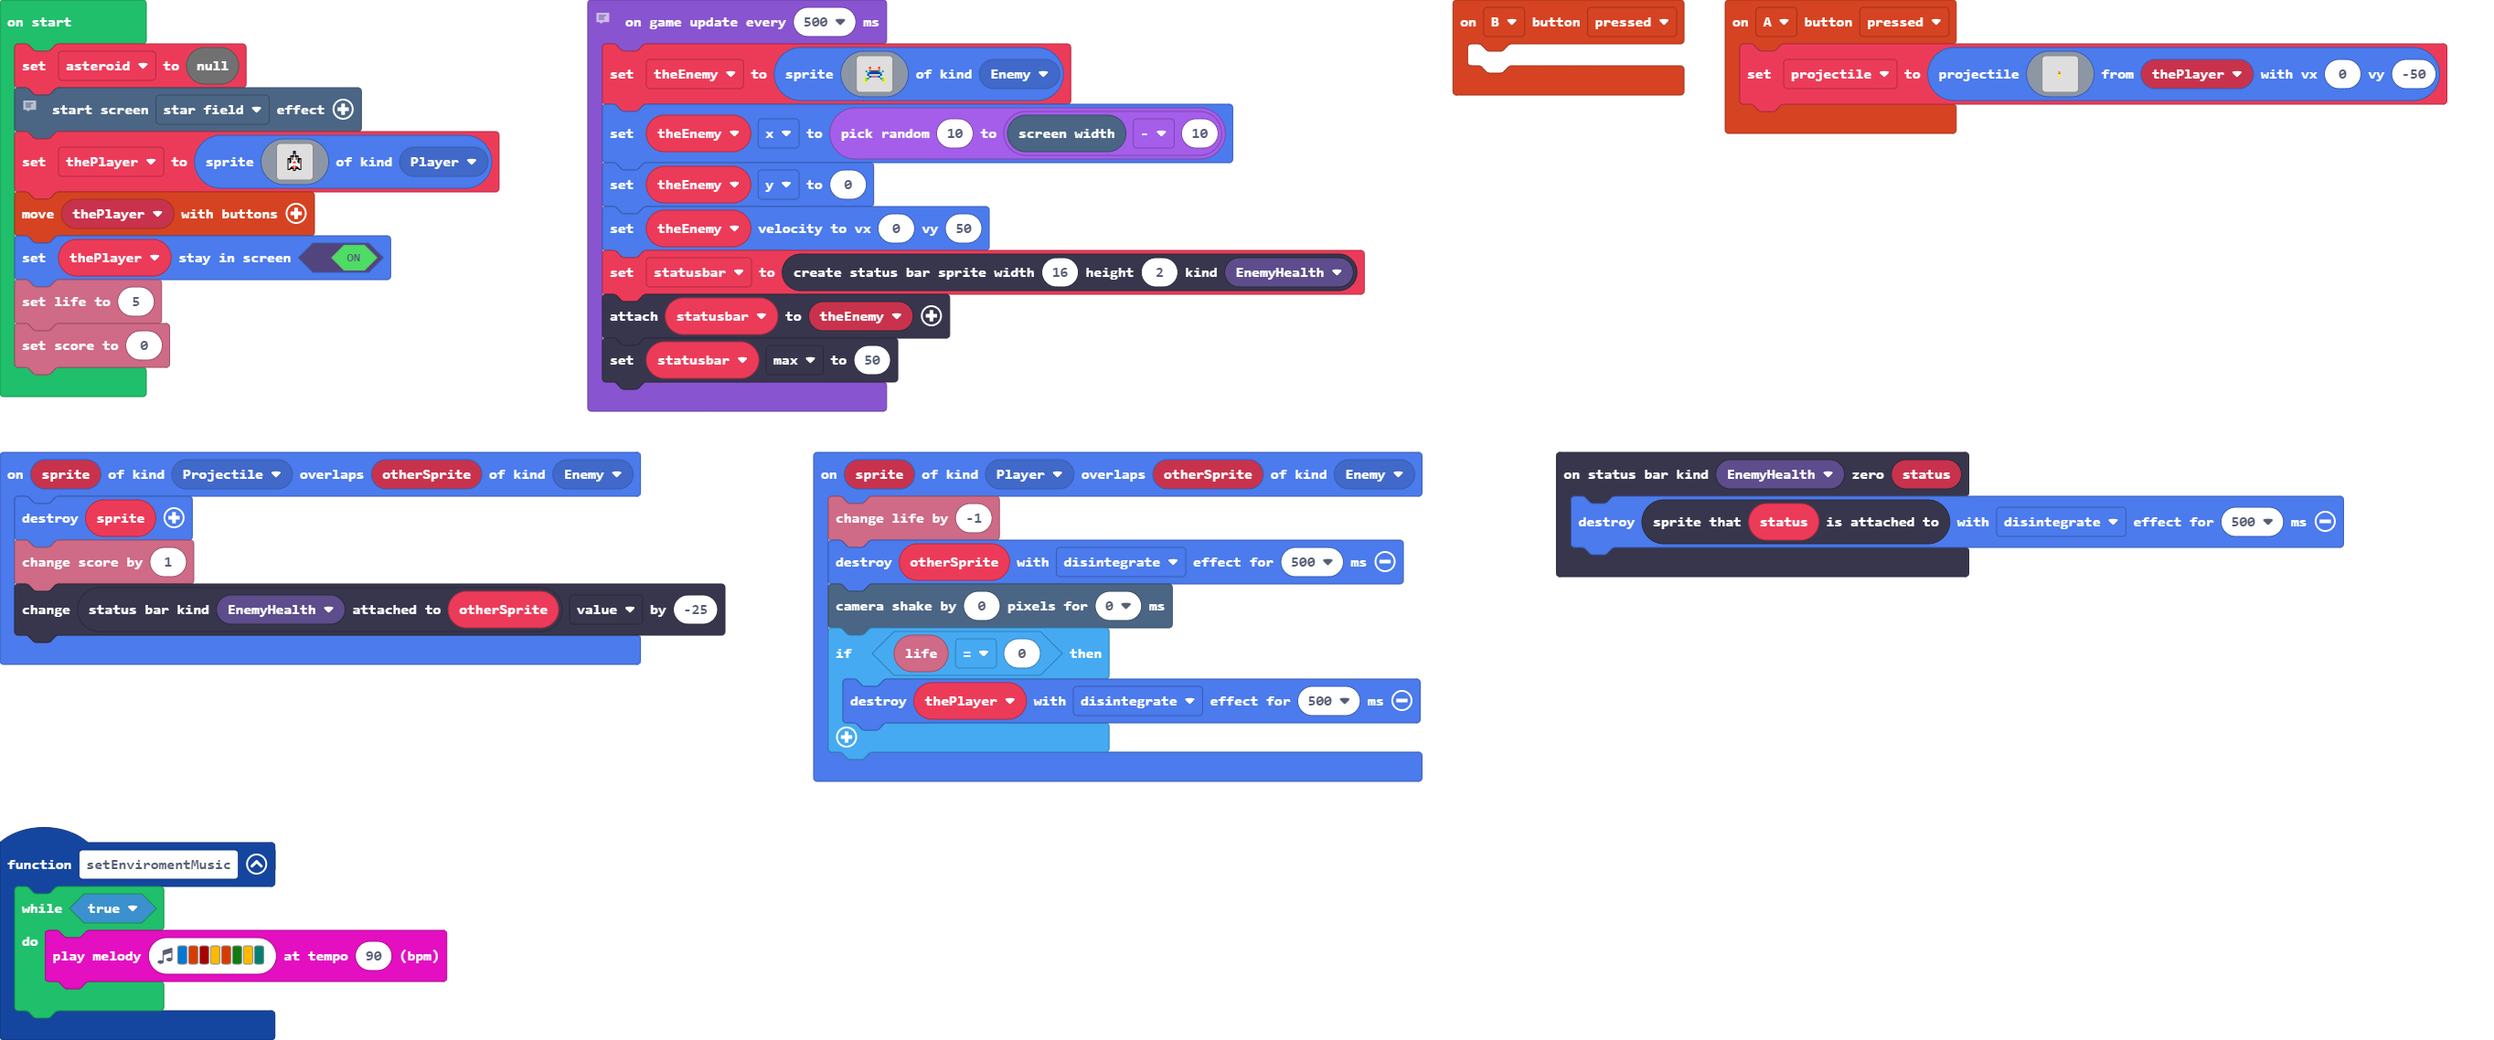
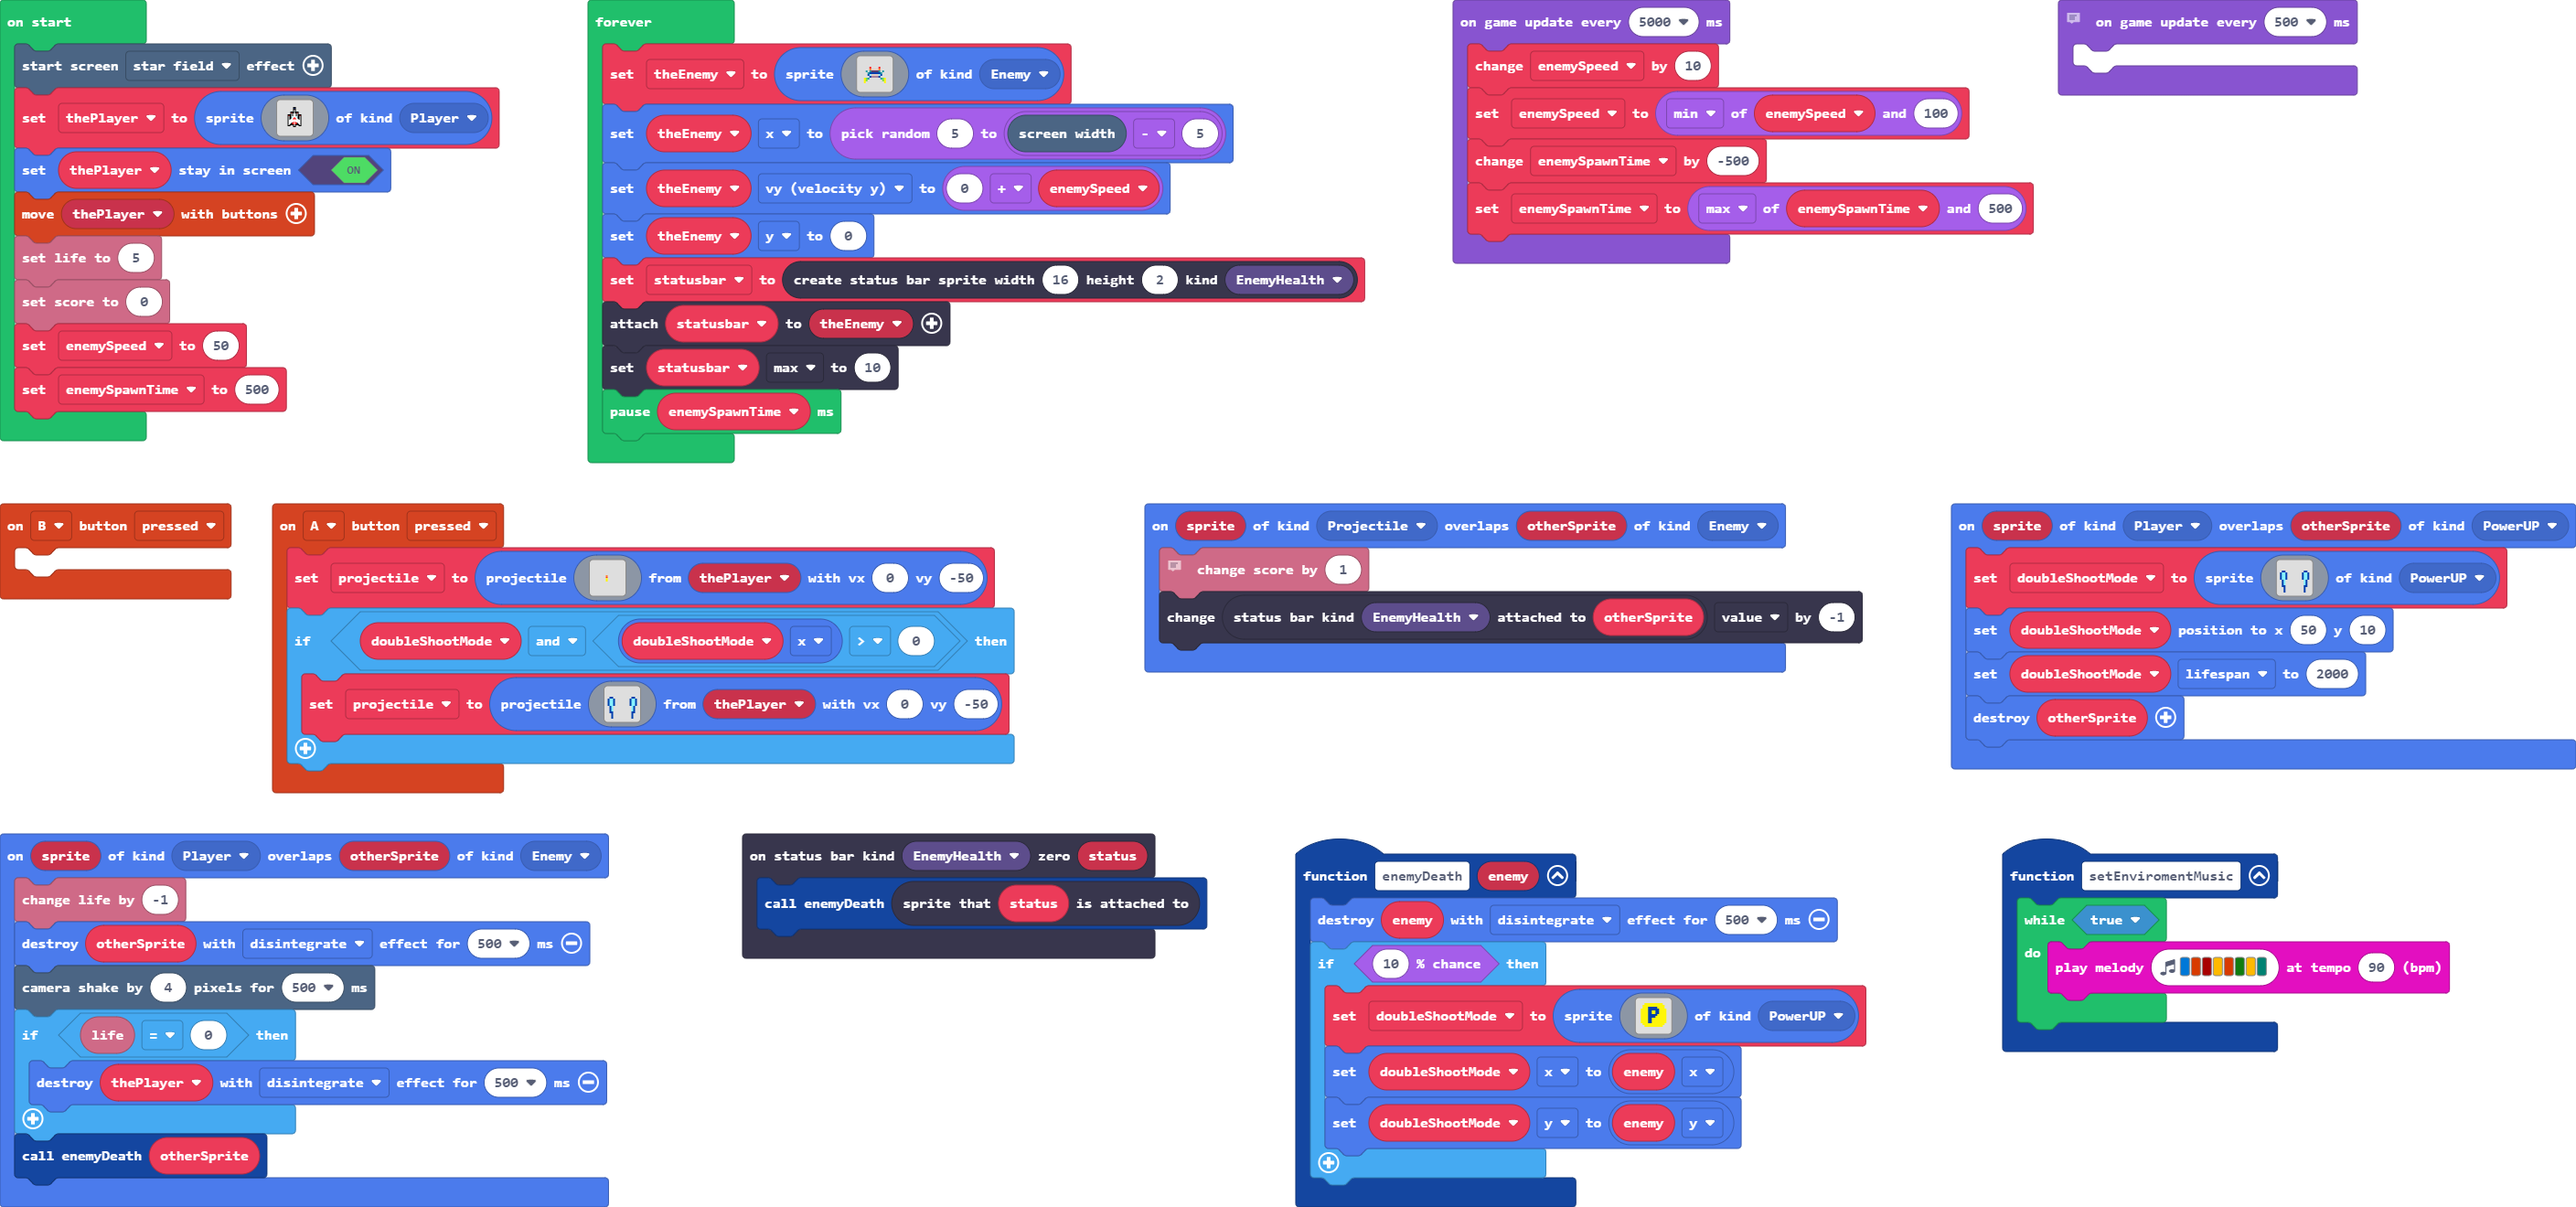
Changin and clampung enemy spawn time

diff --git a/main.ts b/main.ts
@@ -1,16 +1,36 @@
+namespace SpriteKind {
+    export const PowerUP = SpriteKind.create()
+}
 controller.B.onEvent(ControllerButtonEvent.Pressed, function () {
 	
 })
 controller.A.onEvent(ControllerButtonEvent.Pressed, function () {
     projectile = sprites.createProjectileFromSprite(assets.image`shoot`, thePlayer, 0, -50)
+    if (doubleShootMode && doubleShootMode.x > 0) {
+        projectile = sprites.createProjectileFromSprite(assets.image`double_shoot_sprite`, thePlayer, 0, -50)
+    }
 })
 statusbars.onZero(StatusBarKind.EnemyHealth, function (status) {
-    status.spriteAttachedTo().destroy(effects.disintegrate, 500)
+    enemyDeath(status.spriteAttachedTo())
+})
+function enemyDeath (enemy: Sprite) {
+    enemy.destroy(effects.disintegrate, 500)
+    if (Math.percentChance(10)) {
+        doubleShootMode = sprites.create(assets.image`power_up_sprite`, SpriteKind.PowerUP)
+        doubleShootMode.x = enemy.x
+        doubleShootMode.y = enemy.y
+    }
+}
+sprites.onOverlap(SpriteKind.Player, SpriteKind.PowerUP, function (sprite, otherSprite) {
+    doubleShootMode = sprites.create(assets.image`double_shoot_sprite`, SpriteKind.PowerUP)
+    doubleShootMode.setPosition(50, 10)
+    doubleShootMode.lifespan = 2000
+    otherSprite.destroy()
 })
 sprites.onOverlap(SpriteKind.Projectile, SpriteKind.Enemy, function (sprite, otherSprite) {
-    sprite.destroy()
+    // sprite.destroy()
     info.changeScoreBy(1)
-    statusbars.getStatusBarAttachedTo(StatusBarKind.EnemyHealth, otherSprite).value += -25
+    statusbars.getStatusBarAttachedTo(StatusBarKind.EnemyHealth, otherSprite).value += -1
 })
 function setEnviromentMusic () {
     while (true) {
@@ -20,31 +40,42 @@ function setEnviromentMusic () {
 sprites.onOverlap(SpriteKind.Player, SpriteKind.Enemy, function (sprite, otherSprite) {
     info.changeLifeBy(-1)
     otherSprite.destroy(effects.disintegrate, 500)
-    scene.cameraShake(0, 0)
+    scene.cameraShake(4, 500)
     if (info.life() == 0) {
         thePlayer.destroy(effects.disintegrate, 500)
     }
+    enemyDeath(otherSprite)
 })
 let statusbar: StatusBarSprite = null
 let theEnemy: Sprite = null
+let doubleShootMode: Sprite = null
 let projectile: Sprite = null
 let thePlayer: Sprite = null
-let asteroid = null
-// scene.setBackgroundImage(assets.image`bg`)
 effects.starField.startScreenEffect()
 thePlayer = sprites.create(assets.image`player_sprite_0`, SpriteKind.Player)
-controller.moveSprite(thePlayer)
 thePlayer.setStayInScreen(true)
+controller.moveSprite(thePlayer)
 info.setLife(5)
 info.setScore(0)
-// setEnviromentMusic()
-// statusbar.setBarSize(20, 4)
-game.onUpdateInterval(500, function () {
+let enemySpeed = 50
+let enemySpawnTime = 500
+game.onUpdateInterval(5000, function () {
+    enemySpeed += 10
+    enemySpeed = Math.min(enemySpeed, 100)
+    enemySpawnTime += -500
+    enemySpawnTime = Math.max(enemySpawnTime, 500)
+})
+forever(function () {
     theEnemy = sprites.create(assets.image`sprite_enemy_0`, SpriteKind.Enemy)
-    theEnemy.x = randint(10, scene.screenWidth() - 10)
+    theEnemy.x = randint(5, scene.screenWidth() - 5)
+    theEnemy.vy = 0 + enemySpeed
     theEnemy.y = 0
-    theEnemy.setVelocity(0, 50)
     statusbar = statusbars.create(16, 2, StatusBarKind.EnemyHealth)
     statusbar.attachToSprite(theEnemy)
-    statusbar.max = 50
+    statusbar.max = 10
+    pause(enemySpawnTime)
+})
+// statusbar.setBarSize(20, 4)
+game.onUpdateInterval(500, function () {
+	
 })

diff --git a/images.g.ts b/images.g.ts
@@ -234,6 +234,44 @@ c c b a a a a b 6 b b a b b a .
 . . . . c b b a a 6 b c . . . . 
 . . . . . . b 6 6 c c . . . . . 
 `;
+            case "|P4AC$z[%%J`Ql#epqg-":
+            case "power_up_sprite":return img`
+. . . . . . . . . . . . . . . . 
+. . . 5 5 5 5 5 5 5 5 5 5 . . . 
+. . 5 5 5 5 5 5 5 5 5 5 5 5 . . 
+. . 5 5 5 8 8 8 8 8 5 5 5 5 . . 
+. 5 5 5 5 8 8 8 8 8 8 5 5 5 5 . 
+. 5 5 5 5 8 8 5 5 8 8 5 5 5 5 . 
+. 5 5 5 5 8 8 5 5 8 8 5 5 5 5 . 
+. 5 5 5 5 8 8 8 8 8 5 5 5 5 5 . 
+. 5 5 5 5 8 8 8 8 5 5 5 5 5 5 . 
+. 5 5 5 5 8 8 5 5 5 5 5 5 5 5 . 
+. 5 5 5 5 8 8 5 5 5 5 5 5 5 5 . 
+. 5 5 5 5 8 8 5 5 5 5 5 5 5 5 . 
+. . 5 5 5 5 5 5 5 5 5 5 5 5 . . 
+. . . 5 5 5 5 5 5 5 5 5 5 . . . 
+. . . . . . . . . . . . . . . . 
+. . . . . . . . . . . . . . . . 
+`;
+            case "wPesr9JM5Dbf+]5*|/d#":
+            case "double_shoot_sprite":return img`
+. . . . . . . . . . . . . . . . 
+. . . . . . . . . . . . . . . . 
+. . . . . . . . . . . . . . . . 
+. . . . . . . . . . . . . . . . 
+. 8 8 . . . . . . . . . . 8 8 . 
+8 9 9 8 . . . . . . . . 8 9 9 8 
+8 9 9 8 . . . . . . . . 8 9 9 8 
+8 9 9 8 . . . . . . . . 8 9 9 8 
+8 9 9 8 . . . . . . . . 8 9 9 8 
+. 8 9 . . . . . . . . . . 9 8 . 
+. 8 9 . . . . . . . . . . 9 8 . 
+. 8 9 . . . . . . . . . . 9 8 . 
+. 8 8 . . . . . . . . . . 8 8 . 
+. . 8 . . . . . . . . . . 8 . . 
+. . 8 . . . . . . . . . . 8 . . 
+. . 8 . . . . . . . . . . 8 . . 
+`;
         }
         return null;
     })
